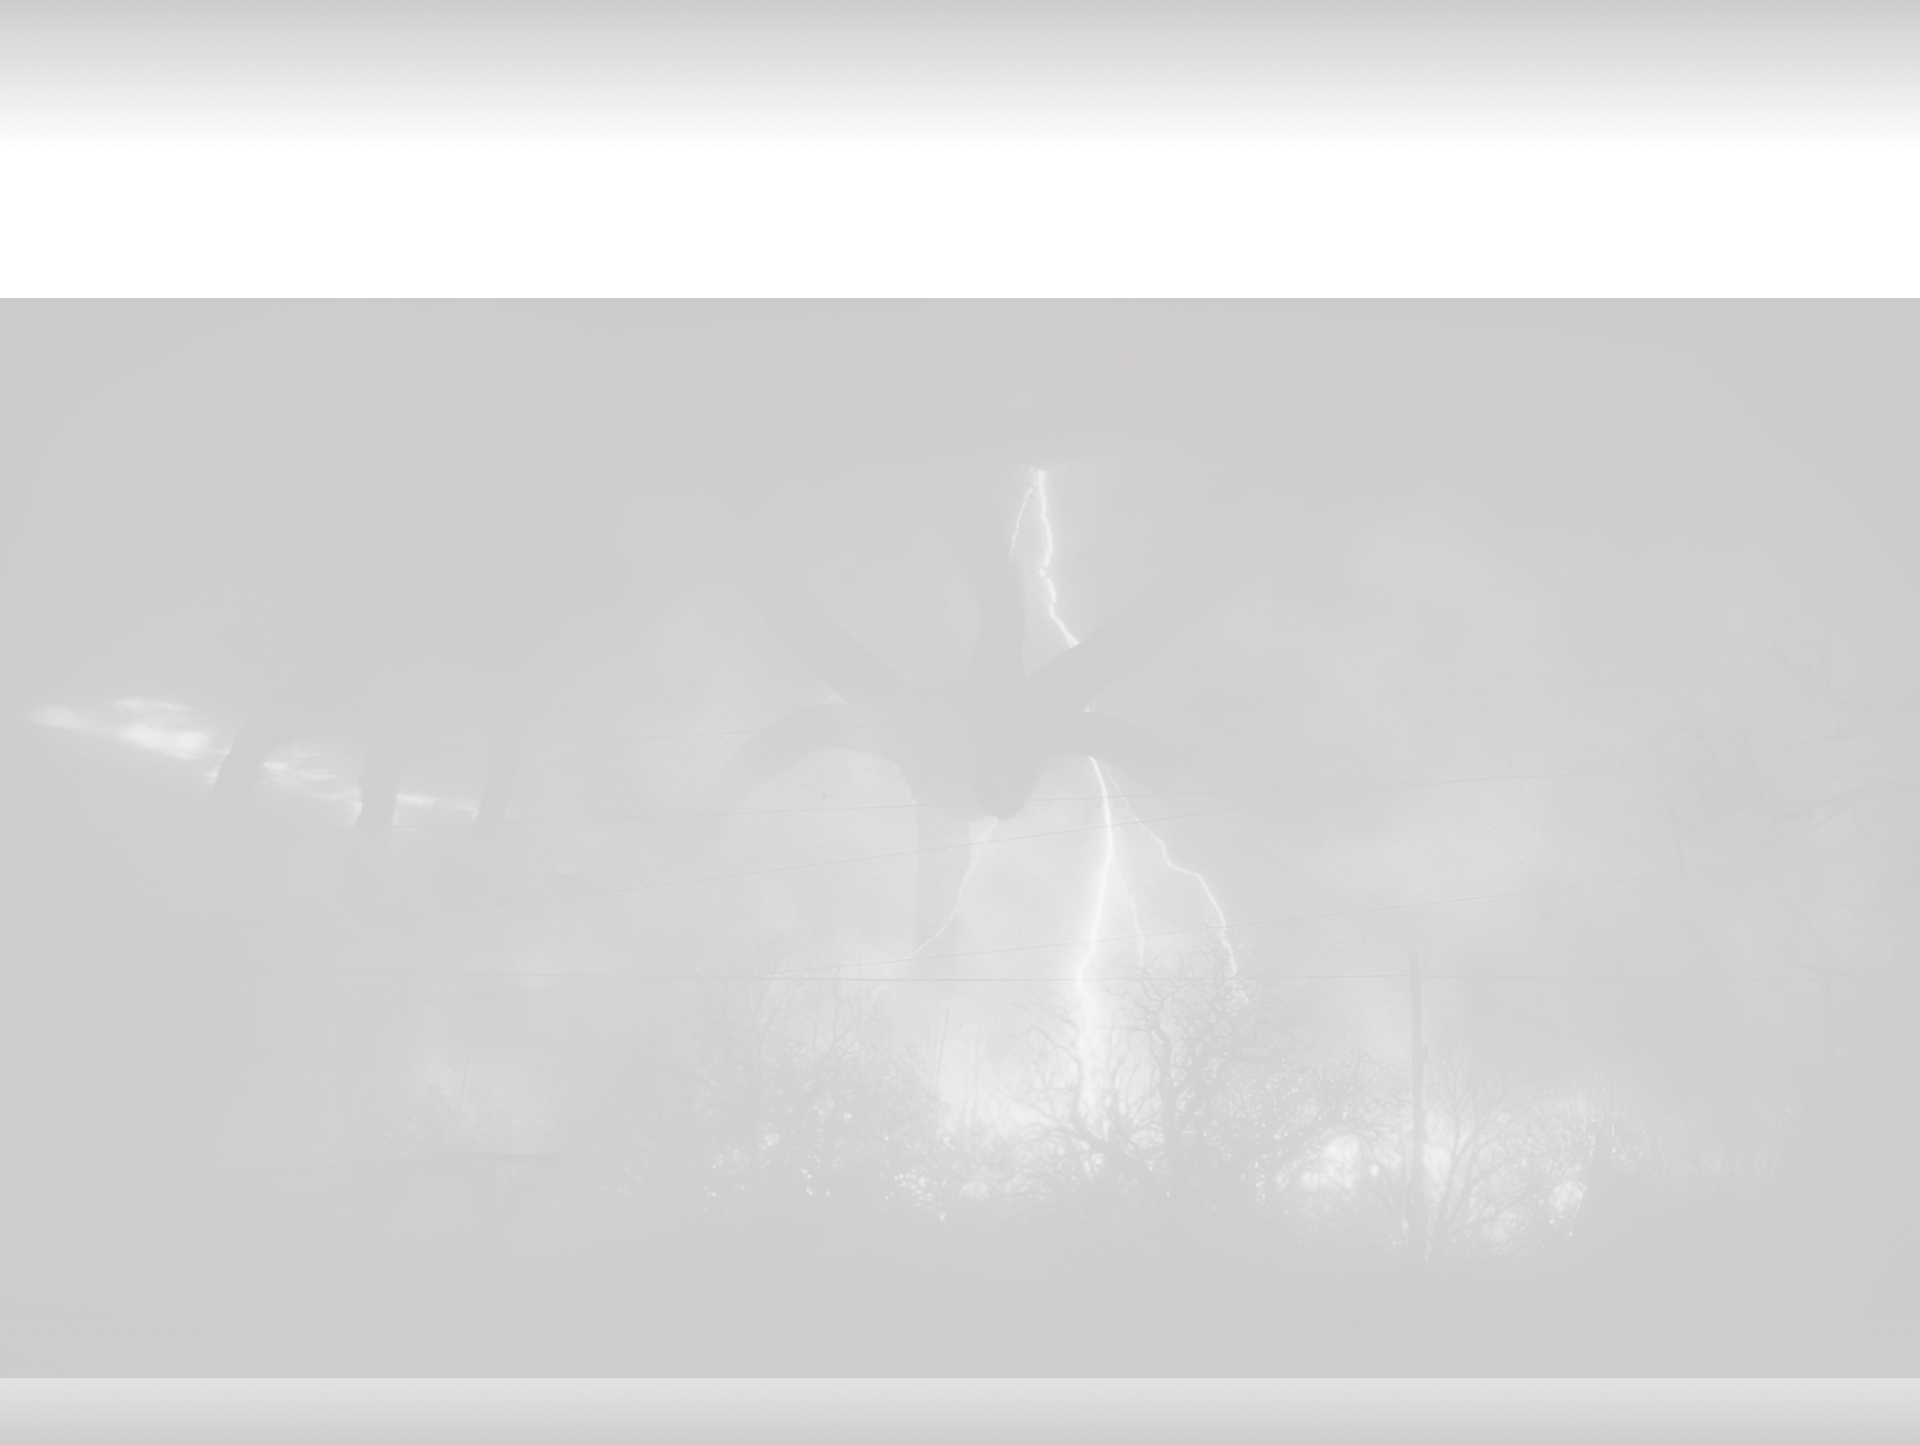
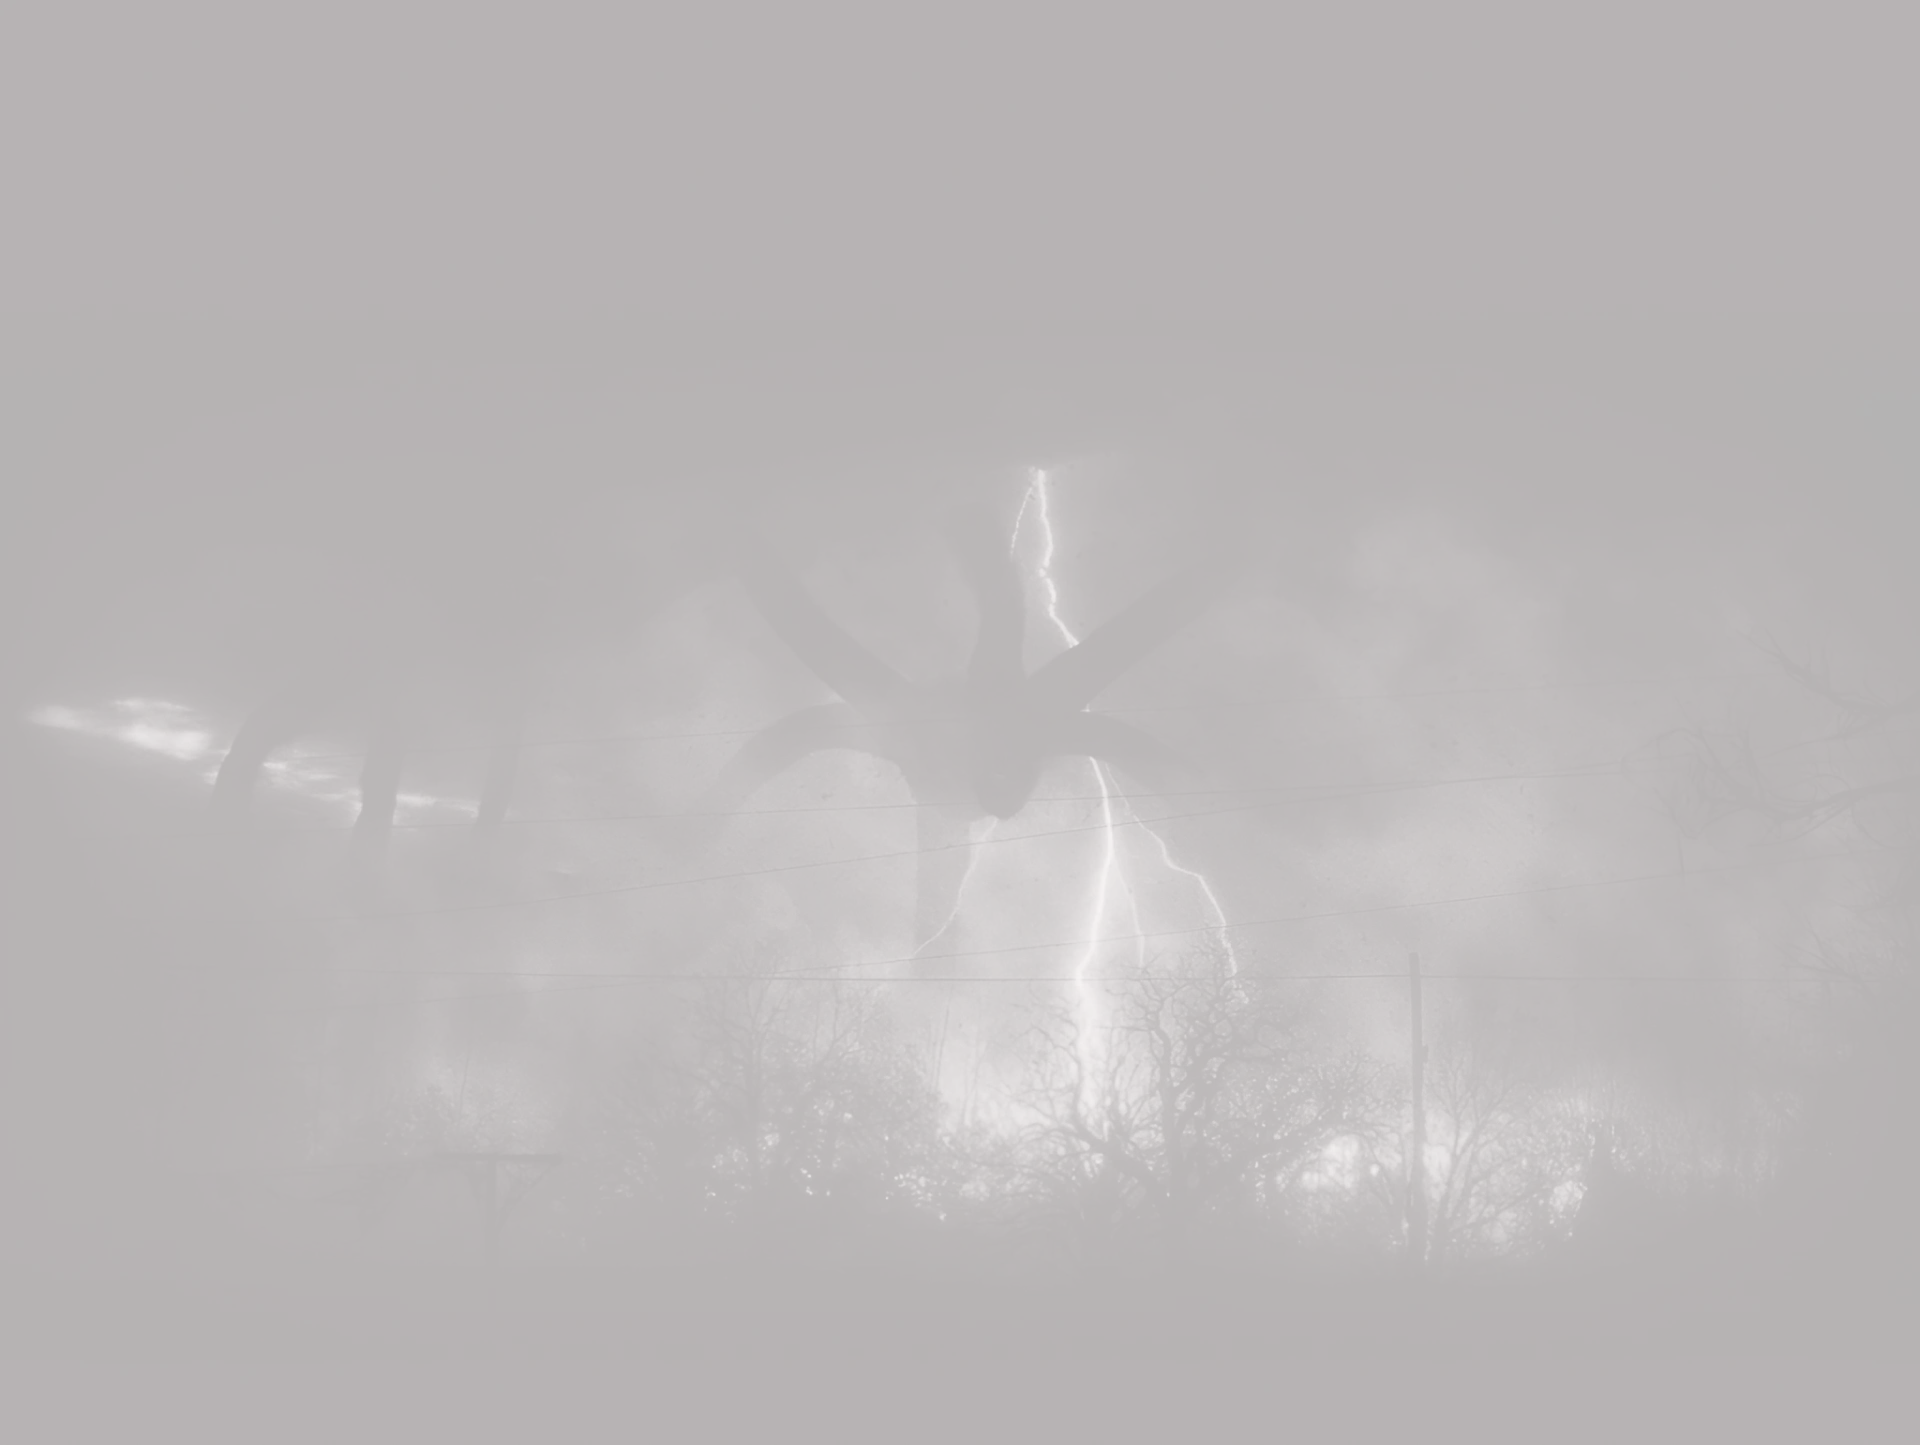
Toda estilização do projeto já foi 80% concluida

diff --git a/src/styles/global.css b/src/styles/global.css
@@ -1,5 +1,3 @@
-@import 'tailwindcss';
-
 * {
 	margin: 0;
 	padding: 0;
@@ -15,10 +13,12 @@ body {
 	background-color: #0c0102;
 	color: rgba(255, 255, 255, 0.9);
 	font-family: 'Poppins';
+	overflow-x: hidden;
 }
 
 button {
 	font-family: 'Poppins', sans-serif;
+	cursor: pointer;
 }
 
 header {
@@ -30,6 +30,39 @@ header {
 	z-index: 9;
 }
 
+section {
+	width: 100%;
+	display: flex;
+	padding: 7vw;
+}
+
+h2 {
+	font-size: 40px;
+	font-weight: 500;
+}
+
+button {
+	background-color: transparent;
+	color: white;
+	font-size: 16px;
+	display: flex;
+	gap: 12px;
+	border: none;
+	outline: none;
+	padding: 16px 0px;
+	border-bottom: 1px solid white;
+}
+
+.bgMonstro {
+	background-image: url('/src/assets/image-section-2.webp');
+	background-position: center;
+	background-size: cover;
+}
+
+ul {
+	list-style: none;
+}
+
 .hero {
 	background-image: url('/src/assets/image-section-1.webp');
 	background-position: 50% 0%;
@@ -39,7 +72,7 @@ header {
 	display: flex;
 	align-items: center;
 	justify-content: space-between;
-	padding: 7vw 4vw 4vw 7vw;
+	padding: 0 7vw 7vw 7vw;
 
 	.esquerda,
 	.direita {
@@ -66,17 +99,153 @@ header {
 			margin-bottom: 32px;
 			text-align: end;
 		}
+	}
+}
 
-		button {
-			background-color: transparent;
-			color: white;
-			font-size: 16px;
+.secaoCidade {
+	flex-direction: column;
+
+	.titulo {
+		display: flex;
+		justify-content: space-between;
+		align-items: center;
+	}
+
+	.cards {
+		margin-top: 52px;
+		display: flex;
+		justify-content: space-between;
+
+		.card {
+			background-image: url('/src/assets/card1.webp');
+			width: 32%;
+			aspect-ratio: 16/9;
+			background-size: cover;
 			display: flex;
-			gap: 12px;
-			border: none;
-			outline: none;
-			padding: 16px 0px;
-			border-bottom: 1px solid white;
+			align-items: end;
+			justify-content: space-between;
+			padding: 20px;
 		}
+
+		.card:nth-child(2) {
+			background-image: url('/src/assets/card2.webp');
+		}
+
+		.card:nth-child(3) {
+			background-image: url('/src/assets/card3.webp');
+		}
+	}
+}
+
+.secaoDepoimentos {
+	flex-direction: column;
+
+	.logotipos {
+		display: flex;
+		justify-content: space-between;
+		align-items: end;
+	}
+
+	.depoimentos {
+		margin-top: 62px;
+		display: flex;
+		justify-content: space-between;
+	}
+
+	.depoimento {
+		width: 31%;
+	}
+}
+
+.secaoObrigado {
+	flex-direction: column;
+	align-items: center;
+
+	h2 {
+		margin-bottom: 40px;
+	}
+
+	ul {
+		display: flex;
+		width: 100%;
+		justify-content: space-between;
+	}
+}
+
+footer {
+	width: 100%;
+	justify-content: space-between;
+	display: flex;
+	flex-direction: column;
+	background-image: url('/src/assets/bg-footer.webp');
+	background-size: cover;
+	background-position: center;
+
+	.conteudoFooter {
+		display: flex;
+		width: 100%;
+		padding: 7vw;
+
+		.logoFooter {
+			width: 30%;
+			h3 {
+				font-size: 24px;
+				font-weight: 500;
+				letter-spacing: 4px;
+			}
+
+			h2 {
+				font-size: 3.7vw;
+				font-family: 'Benguiat Bold';
+			}
+		}
+
+		.secoesFooter {
+			display: flex;
+			flex: 1;
+			justify-content: end;
+			gap: 6%;
+			align-items: end;
+
+			h3 {
+				font-size: 18px;
+				font-weight: 500;
+				margin-bottom: 12px;
+			}
+
+			.social {
+				ul {
+					display: flex;
+					gap: 12px;
+				}
+			}
+		}
+	}
+
+	.logotiposFooter {
+		display: flex;
+		justify-content: space-between;
+		width: 100%;
+		padding: 0 4vw;
+	}
+
+	.textoInfinito {
+		display: flex;
+		width: max-content;
+
+		h3 {
+			color: rgb(191, 191, 191);
+			font-size: 12vw;
+			font-family: 'Benguiat Bold', sans-serif;
+			mix-blend-mode: color-dodge;
+			animation: textoInfinito 20s infinite linear;
+			padding-left: 3vw;
+		}
+	}
+}
+
+@keyframes textoInfinito {
+	100% {
+		transform: translateX(-100%);
 	}
 }
